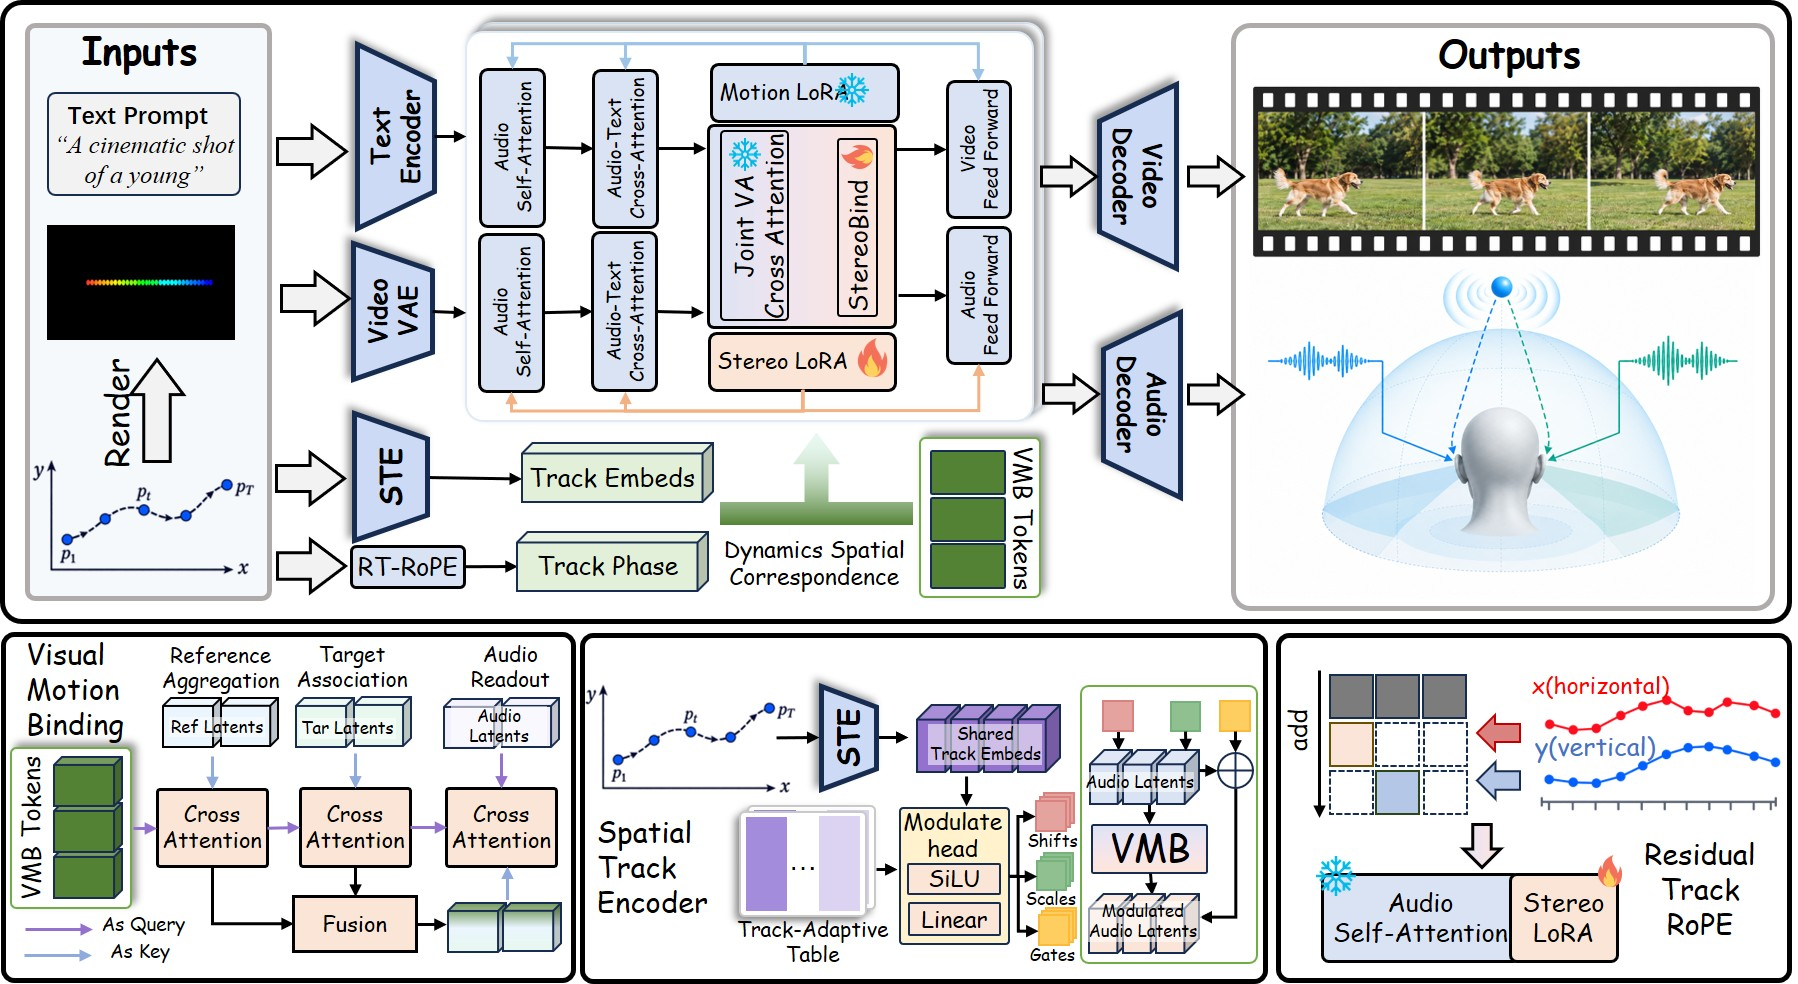
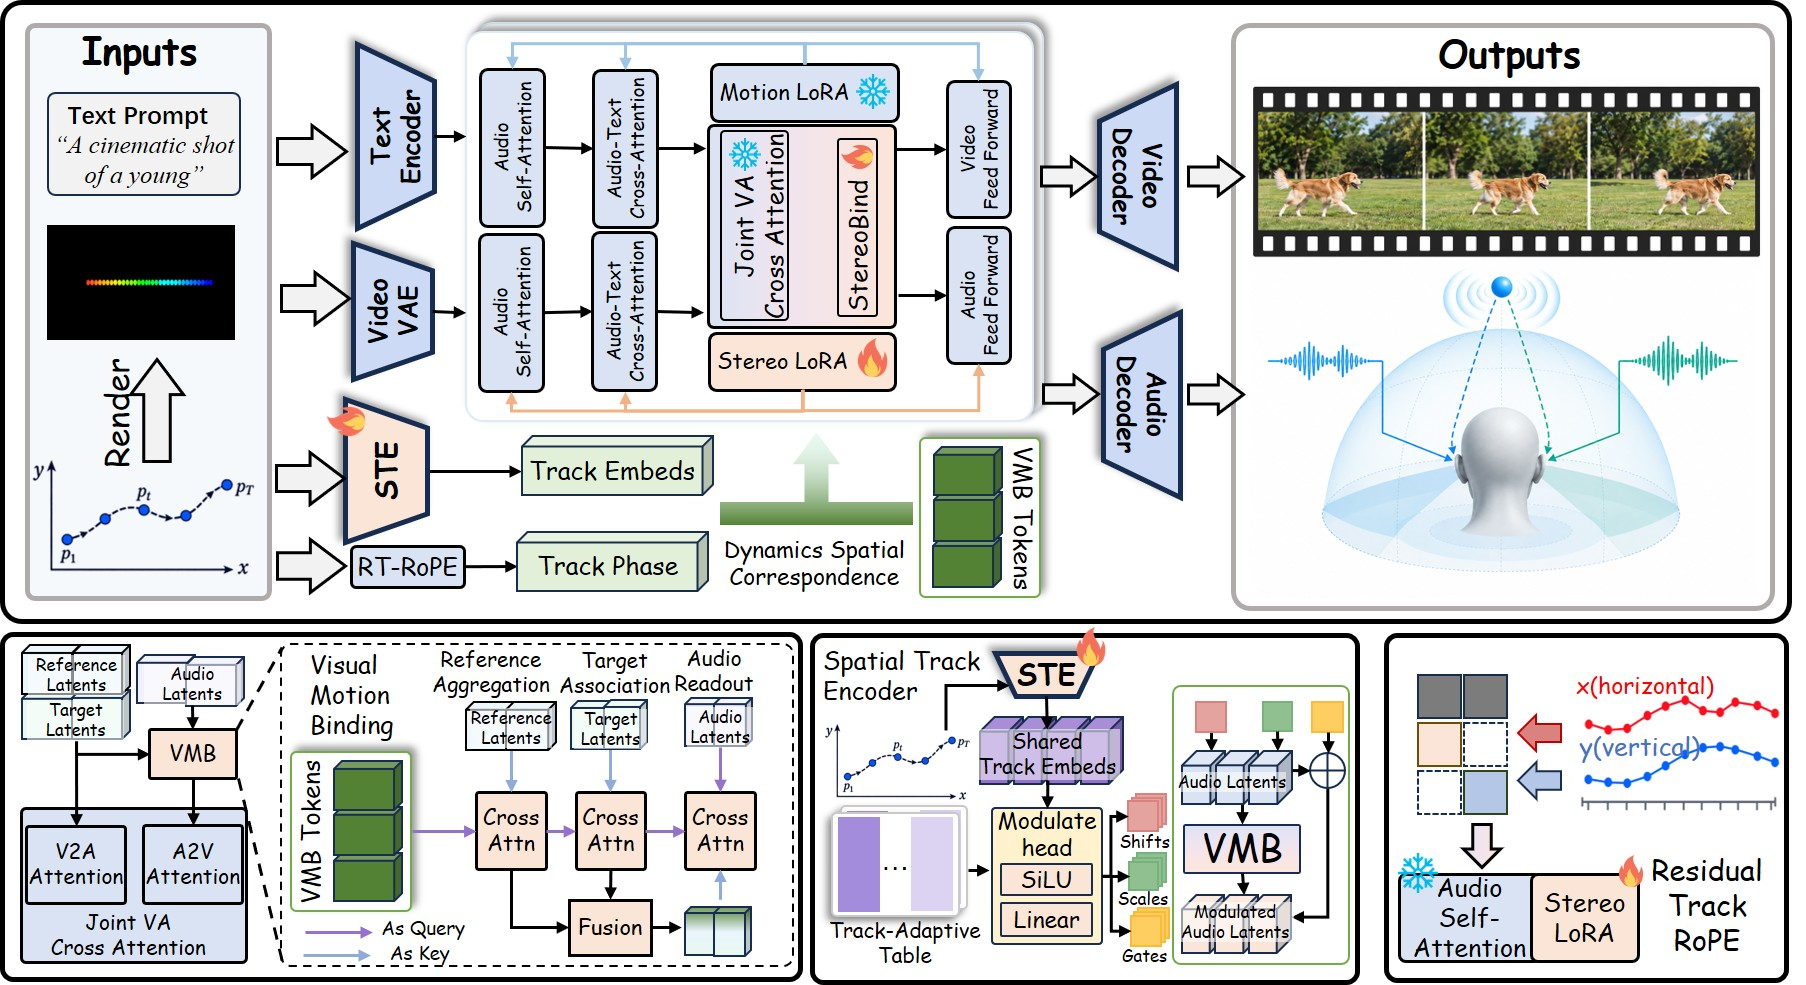
Update teaser dataset and method figures

diff --git a/sections.css b/sections.css
@@ -216,8 +216,8 @@
 .dataset-wrap { background:linear-gradient(180deg,#0d1928,#0a1421); border-top:1px solid var(--line); border-bottom:1px solid var(--line); }
 .dataset-wrap .section-block { padding-bottom:95px; }
 .media-teaser { aspect-ratio:1663 / 750; min-height:0; }
-.media-dataset { aspect-ratio:1648 / 890; min-height:0; }
-.media-method { aspect-ratio:1798 / 984; min-height:0; }
+.media-dataset { aspect-ratio:1630 / 890; min-height:0; }
+.media-method { aspect-ratio:1806 / 985; min-height:0; }
 .media-diagram-link.is-filled { display:block; background:#fff; border:1px solid rgba(141,181,198,.42); cursor:zoom-in; transition:border-color .2s ease,box-shadow .2s ease,transform .2s ease; }
 .media-diagram-link.is-filled img { object-fit:contain; background:#fff; }
 .media-diagram-link.is-filled::after { content:"OPEN FULL SIZE  ↗"; position:absolute; z-index:2; right:14px; bottom:14px; padding:7px 10px; border-radius:999px; background:rgba(7,13,23,.88); color:#d7e7ec; font:600 10px Arial,sans-serif; letter-spacing:.11em; opacity:0; transform:translateY(4px); transition:opacity .2s ease,transform .2s ease; }
